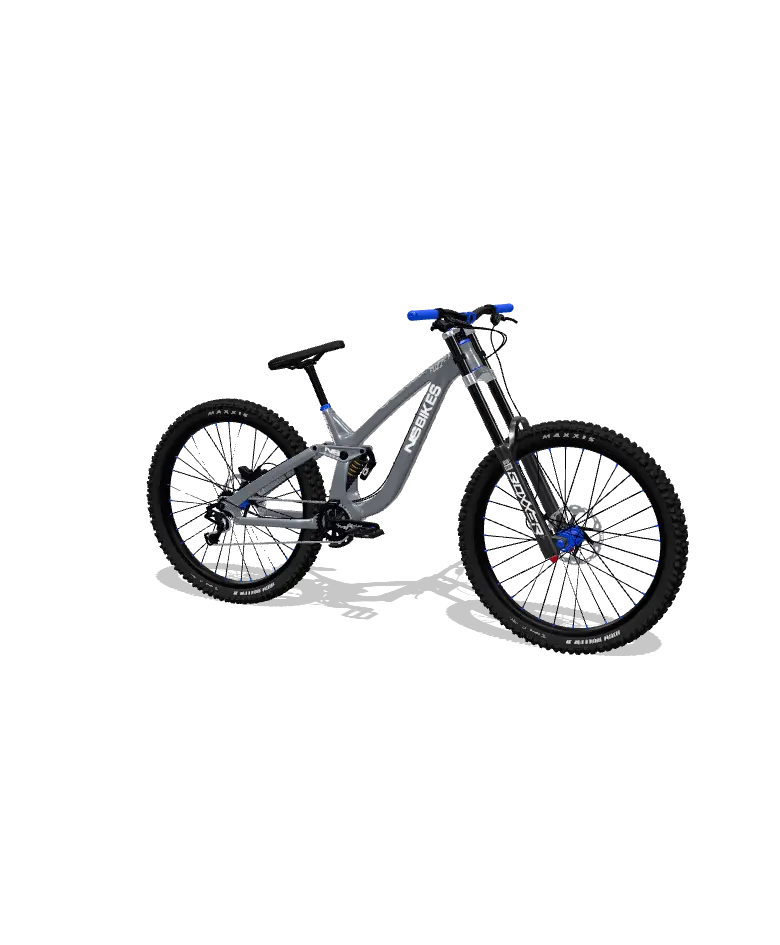
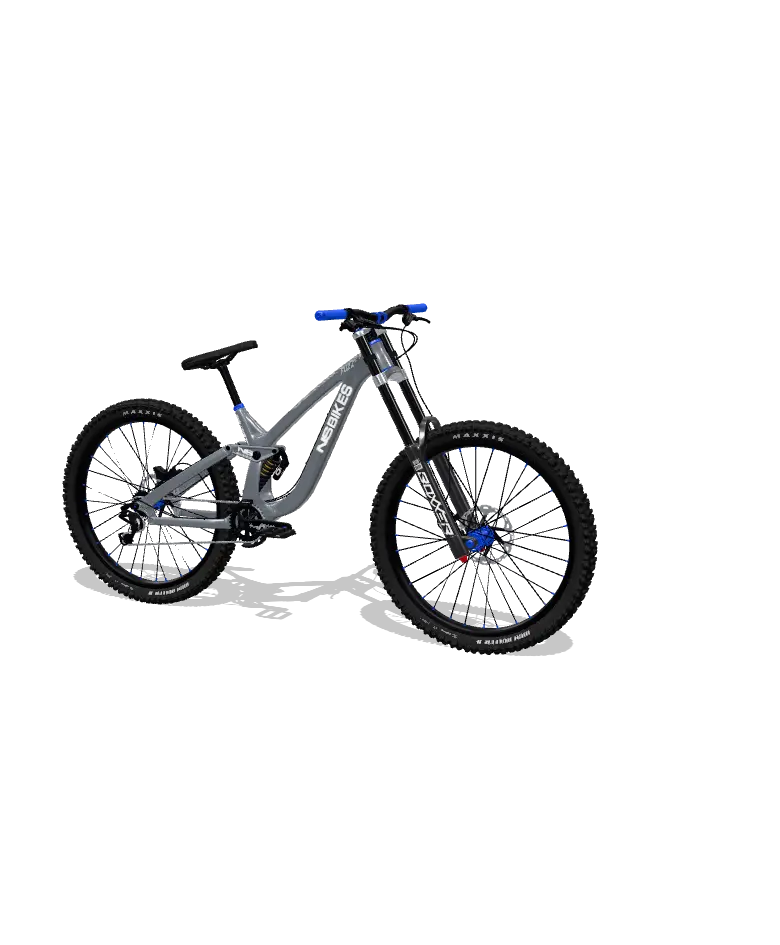
feat: top bar with camera controls, price and main button; quieter scrollbars
- Top bar (56px) above the stage and panel: name + Live preview, the camera
  controls as a segmented control (Full view, Side, Rotate, Image) with
  quality and theme after it, then price ("incl. €X in options"), Share and
  the main button. Removes the stage toolbar, the brand chip and the panel
  footer; the option list takes that height.
- SHOW_CART in config.js (default false): "Add to cart" when on, otherwise
  "Share build" (the Share icon is hidden then, since it would repeat it).
- Under 900px: 52px bar with name, price and main button; camera controls
  stack as 36px glass buttons on the stage's right edge, and the camera view
  is offset so the bike centers in the space left of them.
- Overview view panned 11 cm so the bike sits centered (it leaned right);
  posters re-rendered for the new stage size.
- Thin scrollbars in theme tokens everywhere; 16px top/bottom fades on the
  option list, only while there is more to scroll.

Changed region(s): [[0.0615, 0.3069, 0.8923, 0.7058], [0.3077, 0.3376, 0.3385, 0.3683]]

diff --git a/src/styles.css b/src/styles.css
@@ -27,33 +27,76 @@ body{background:var(--bg);color:var(--ink);font:14px/1.5 Inter,ui-sans-serif,sys
 button,input{font:inherit;color:inherit}
 button{cursor:pointer}
 :focus-visible{outline:2px solid var(--ring);outline-offset:2px;border-radius:8px}
+/* scrollbars blend in everywhere (option list, look slider, page on phones): thin, quiet thumb, no track */
+*{scrollbar-width:thin;scrollbar-color:var(--border-strong) transparent}
+::-webkit-scrollbar{width:8px;height:8px}
+::-webkit-scrollbar-track,::-webkit-scrollbar-corner{background:transparent}
+::-webkit-scrollbar-thumb{background:var(--border) padding-box;border:2px solid transparent;border-radius:999px}
+::-webkit-scrollbar-thumb:hover{background-color:var(--border-strong)}
 
-.app{display:grid;grid-template-columns:minmax(0,1fr) 420px;height:100dvh}
-@media (max-width:900px){body{overflow:auto}.app{grid-template-columns:minmax(0,1fr);grid-template-rows:56dvh auto;height:auto}}
+.app{display:grid;grid-template-columns:minmax(0,1fr) 420px;grid-template-rows:56px minmax(0,1fr);height:100dvh}
+@media (max-width:900px){body{overflow:auto}.app{grid-template-columns:minmax(0,1fr);grid-template-rows:52px 56dvh auto;height:auto}}
 
 .stage{position:relative;background:radial-gradient(120% 90% at 50% 40%,var(--stage-a) 0%,var(--stage-b) 100%);overflow:hidden;min-height:320px}
-@media (max-width:900px){.stage{position:sticky;top:0;z-index:2;height:56dvh}}
+@media (max-width:900px){.stage{position:sticky;top:52px;z-index:2;height:56dvh}}
 canvas{display:block;width:100%;height:100%;touch-action:none;outline:none}
-.brandmark{position:absolute;z-index:1;top:16px;left:20px;padding:6px 10px;border-radius:10px;background:var(--chip);backdrop-filter:blur(10px);-webkit-backdrop-filter:blur(10px);font-weight:600;font-size:15px;letter-spacing:-.01em}
-.brandmark span{color:var(--muted);font-weight:500;margin-left:8px;font-size:12px;padding:2px 8px;border:1px solid var(--border-strong);border-radius:999px}
-.brandmark .live{display:inline-flex;align-items:center;gap:6px;vertical-align:1px}
+.hint{position:absolute;top:18px;right:20px;color:var(--muted);font-size:12px;transition:opacity var(--slow) var(--ease)}
+@media (max-width:900px){.hint{right:auto;left:16px;top:14px}}
+@media (max-width:640px){.hint{display:none}}
+
+/* top bar: name, camera controls, price and the main action, above the stage and the panel */
+.topbar{grid-column:1/-1;position:relative;z-index:4;display:flex;align-items:center;gap:16px;min-width:0;padding:0 16px 0 20px;
+  background:var(--surface);border-bottom:1px solid var(--border)}
+.tbrand{display:flex;align-items:center;gap:10px;min-width:0}
+.tname{font-weight:600;font-size:15px;letter-spacing:-.01em;white-space:nowrap;overflow:hidden;text-overflow:ellipsis}
+.live{display:inline-flex;align-items:center;gap:6px;flex:none;color:var(--muted);font-weight:500;font-size:12px;padding:2px 8px;border:1px solid var(--border-strong);border-radius:999px;white-space:nowrap}
 .live i{width:6px;height:6px;border-radius:50%;background:var(--live);flex:none;animation:livePulse 2s ease-in-out infinite}
 @keyframes livePulse{0%,100%{opacity:1}50%{opacity:.4}}
 @media (prefers-reduced-motion:reduce){.live i{animation:none}}
-.hint{position:absolute;top:22px;right:24px;color:var(--muted);font-size:12px;transition:opacity var(--slow) var(--ease)}
-@media (max-width:640px){.hint{display:none}.brandmark{left:12px;top:12px}}
+.buy{margin-left:auto;display:flex;align-items:center;gap:8px;flex:none}
+.price{display:flex;flex-direction:column;align-items:flex-end;line-height:1.2;margin-right:4px;white-space:nowrap}
+.price .total{font-size:16px;font-weight:600;letter-spacing:-.01em}
+.price .extra{font-size:11px;color:var(--muted)}
+.price .extra:empty{display:none}
+.ib{width:36px;height:36px;flex:none;border:1px solid var(--border-strong);border-radius:10px;background:var(--surface);display:grid;place-items:center;color:var(--ink);transition:background-color var(--fast) var(--ease)}
+.ib svg{width:16px;height:16px}
+@media (hover:hover){.ib:hover{background:var(--hover)}}
+.ib:active{transform:scale(.97)}
+.topbar .btn{height:36px;font-size:13px;padding:0 14px;white-space:nowrap}
 
-.toolbar{position:absolute;left:50%;bottom:20px;transform:translateX(-50%);display:flex;gap:4px;padding:4px;background:var(--chip);backdrop-filter:blur(12px);-webkit-backdrop-filter:blur(12px);border:1px solid var(--border);border-radius:12px;box-shadow:0 8px 24px -12px rgb(0 0 0/.25)}
-.tb{white-space:nowrap;height:34px;min-width:34px;padding:0 10px;border:0;background:transparent;border-radius:8px;display:inline-flex;align-items:center;justify-content:center;gap:6px;font-size:13px;font-weight:500;color:var(--muted);transition:background-color var(--fast) var(--ease),color var(--fast) var(--ease)}
-.tb svg{width:16px;height:16px}
-.tb.on{color:var(--ink);background:var(--hover)}
-@media (hover:hover){.tb:hover{color:var(--ink);background:var(--hover)}}
+/* camera controls: a segmented control in the top bar */
+.toolbar{display:flex;align-items:center;gap:8px;min-width:0;margin-left:8px}
+.views{display:flex;gap:2px;padding:3px;background:var(--hover);border-radius:10px}
+.tools{display:flex;align-items:center;gap:2px}
+.tb{white-space:nowrap;height:30px;min-width:30px;padding:0 10px;border:0;background:transparent;border-radius:7px;display:inline-flex;align-items:center;justify-content:center;gap:6px;font-size:13px;font-weight:500;color:var(--muted);
+  transition:background-color var(--fast) var(--ease),color var(--fast) var(--ease),box-shadow var(--fast) var(--ease)}
+.tools .tb{height:34px;min-width:34px;border-radius:8px}
+.tb svg{width:16px;height:16px;flex:none}
+.views .tb.on{color:var(--ink);background:var(--surface);box-shadow:0 1px 2px rgb(0 0 0/.1)}
+.tools .tb.on,.tools .tb[aria-expanded="true"]{color:var(--ink);background:var(--hover)}
+@media (hover:hover){.tb:hover{color:var(--ink)}.tools .tb:hover{background:var(--hover)}}
 .tb:active{transform:scale(.97)}
-.tbsep{width:1px;background:var(--border);margin:6px 2px}
 .tb:disabled{opacity:.4;cursor:default}
+@media (max-width:1240px){.toolbar .tb[data-view] .lbl,#spinBtn .lbl,#shotBtn .lbl{display:none}.views .tb{padding:0}}
+@media (max-width:1040px){.live{display:none}}
+
+/* phones: the controls move onto the stage (script in index.html) as a vertical stack of glass buttons on the right edge */
+@media (max-width:900px){
+  .topbar{position:sticky;top:0;gap:10px;padding:0 12px}
+  .tbrand,.tname{flex:1}
+  .live,.ib{display:none}
+  .price .total{font-size:15px}
+  .stage .toolbar{position:absolute;z-index:2;top:12px;right:12px;margin:0;flex-direction:column;align-items:stretch;gap:8px}
+  .stage .views,.stage .tools{flex-direction:column;gap:2px;padding:2px;border-radius:12px;background:var(--chip);border:1px solid var(--border);
+    backdrop-filter:blur(10px);-webkit-backdrop-filter:blur(10px);box-shadow:0 8px 24px -12px rgb(0 0 0/.25)}
+  .stage .tb{width:36px;height:36px;min-width:0;padding:0;border-radius:9px}
+  .stage .tb .lbl{display:none}
+  .stage .views .tb.on{background:var(--hover);box-shadow:none}
+}
+
 /* quality menu */
 .qwrap{position:relative;display:flex}
-.qmenu{position:absolute;right:-4px;bottom:calc(100% + 10px);z-index:5;width:244px;padding:6px;display:grid;gap:2px;
+.qmenu{position:absolute;left:-4px;top:calc(100% + 10px);z-index:5;width:244px;padding:6px;display:grid;gap:2px;
   background:var(--surface);border:1px solid var(--border);border-radius:12px;box-shadow:0 12px 32px -12px rgb(0 0 0/.3)}
 .qmenu[hidden]{display:none}
 .qmenu button{display:grid;grid-template-columns:16px minmax(0,1fr);column-gap:8px;align-items:center;padding:8px 10px;border:0;border-radius:8px;
@@ -64,7 +107,7 @@ canvas{display:block;width:100%;height:100%;touch-action:none;outline:none}
 .qmenu span{grid-column:2;font-size:12px;color:var(--muted)}
 .qchk{grid-row:span 2;width:14px;height:14px;color:var(--ink);opacity:0}
 .qmenu [aria-checked="true"] .qchk{opacity:1}
-@media (max-width:560px){.tb .lbl{display:none}}
+@media (max-width:900px){.stage .qmenu{left:auto;top:0;right:calc(100% + 8px)}}
 
 .loader{position:absolute;inset:0;display:grid;place-items:center;transition:opacity var(--slow) var(--ease);z-index:3}
 .loader.done{opacity:0;pointer-events:none}
@@ -76,7 +119,7 @@ canvas{display:block;width:100%;height:100%;touch-action:none;outline:none}
 .poster.m{left:0;top:50%;width:100cqw;transform:translateY(-50%)}
 .poster.dim{opacity:.4}
 .poster.gone{opacity:0}
-.stage.hasPoster .loader{place-items:end center;padding-bottom:88px}
+.stage.hasPoster .loader{place-items:end center;padding-bottom:28px}
 .stage.hasPoster .loader .box{width:auto;padding:8px 14px;border-radius:999px;background:var(--chip);border:1px solid var(--border);backdrop-filter:blur(10px);-webkit-backdrop-filter:blur(10px)}
 .stage.hasPoster .loader .bar{display:none}
 .loader .box{width:240px;text-align:center;color:var(--muted);font-size:13px}
@@ -94,8 +137,7 @@ canvas{display:block;width:100%;height:100%;touch-action:none;outline:none}
 /* look cards: a preset replaces the whole build, so each card shows the whole bike */
 .lhead{display:flex;align-items:baseline;justify-content:space-between;gap:12px}
 .lnote{font-size:12px;font-weight:500;letter-spacing:0;text-transform:none;color:var(--muted);white-space:nowrap}
-.looks{position:relative;display:flex;gap:10px;overflow-x:auto;padding:4px 24px 6px;scroll-snap-type:x mandatory;scroll-padding-inline:24px;scrollbar-width:none;overscroll-behavior-x:contain}
-.looks::-webkit-scrollbar{display:none}
+.looks{position:relative;display:flex;gap:10px;overflow-x:auto;padding:4px 24px 8px;scroll-snap-type:x mandatory;scroll-padding-inline:24px;overscroll-behavior-x:contain}
 .look{flex:none;width:168px;scroll-snap-align:start;display:flex;flex-direction:column;padding:0;border:1px solid var(--border);border-radius:12px;background:var(--surface);text-align:left;overflow:hidden;transition:border-color var(--fast) var(--ease)}
 @media (hover:hover){.look:hover{border-color:var(--border-strong)}}
 .lthumb{position:relative;display:block;height:92px;background:radial-gradient(120% 110% at 50% 35%,var(--stage-a) 0%,var(--stage-b) 100%)}
@@ -122,6 +164,19 @@ canvas{display:block;width:100%;height:100%;touch-action:none;outline:none}
 
 .sections{flex:1;overflow-y:auto;padding:0 12px 16px;min-height:0}
 @media (max-width:900px){.sections{overflow:visible}}
+/* a 16 px fade at the top and bottom of the option list, only while there is more to scroll that way (main.js sets
+   .fadeT/.fadeB). The second mask layer keeps the scrollbar column unmasked. */
+@property --fadeT{syntax:"<length>";inherits:false;initial-value:0px}
+@property --fadeB{syntax:"<length>";inherits:false;initial-value:0px}
+@media (min-width:901px){
+  .sections{--fadeT:0px;--fadeB:0px;transition:--fadeT var(--base) var(--ease),--fadeB var(--base) var(--ease);
+    -webkit-mask:linear-gradient(transparent,#000 var(--fadeT),#000 calc(100% - var(--fadeB)),transparent) 0 0/calc(100% - 8px) 100% no-repeat,
+      linear-gradient(#000,#000) 100% 0/8px 100% no-repeat;
+    mask:linear-gradient(transparent,#000 var(--fadeT),#000 calc(100% - var(--fadeB)),transparent) 0 0/calc(100% - 8px) 100% no-repeat,
+      linear-gradient(#000,#000) 100% 0/8px 100% no-repeat}
+  .sections.fadeT{--fadeT:16px}
+  .sections.fadeB{--fadeB:16px}
+}
 .sec{--row:var(--surface);border-radius:12px;transition:background-color var(--base) var(--ease)}
 .sec.open{--row:var(--surface-2);background:var(--surface-2)}
 .sec+.sec{margin-top:2px}
@@ -221,16 +276,9 @@ canvas{display:block;width:100%;height:100%;touch-action:none;outline:none}
 .moreInner{padding-top:12px}
 .moreInner>.ctrl+.ctrl{margin-top:16px}
 
-.foot{border-top:1px solid var(--border);padding:16px 24px calc(16px + env(safe-area-inset-bottom));background:var(--surface)}
-@media (max-width:900px){.foot{position:sticky;bottom:0;z-index:3}}
-.price{display:flex;align-items:baseline;gap:4px 8px;flex-wrap:wrap}
-.price .total{font-size:22px;font-weight:600;letter-spacing:-.01em}
-.price .extra{font-size:12px;color:var(--muted)}
-.price .ship{flex-basis:100%;font-size:12px;color:var(--muted)}
-.actions{display:flex;gap:8px;margin-top:12px}
-.btn{height:44px;border-radius:10px;border:1px solid var(--border-strong);background:var(--surface);padding:0 14px;font-weight:600;font-size:14px;display:inline-flex;align-items:center;justify-content:center;gap:8px;transition:background-color var(--fast) var(--ease),transform 80ms var(--ease)}
+.btn{flex:none;height:44px;border-radius:10px;border:1px solid var(--border-strong);background:var(--surface);padding:0 14px;font-weight:600;font-size:14px;display:inline-flex;align-items:center;justify-content:center;gap:8px;transition:background-color var(--fast) var(--ease),transform 80ms var(--ease)}
 .btn svg{width:16px;height:16px}
-.btn.primary{flex:1;background:var(--btn);color:var(--btn-ink);border-color:var(--btn)}
+.btn.primary{background:var(--btn);color:var(--btn-ink);border-color:var(--btn)}
 @media (hover:hover){.btn:not(.primary):hover{background:var(--hover)}.btn.primary:hover{opacity:.92}}
 .btn:active{transform:scale(.98)}
 .perfHud{position:fixed;left:12px;bottom:12px;z-index:30;padding:8px 10px;border-radius:10px;background:var(--chip);border:1px solid var(--border);
@@ -239,8 +287,8 @@ canvas{display:block;width:100%;height:100%;touch-action:none;outline:none}
 .toast{position:fixed;left:50%;bottom:24px;transform:translate(-50%,8px);opacity:0;background:var(--ink);color:var(--surface);padding:10px 16px;border-radius:10px;font-size:13px;font-weight:500;z-index:20;transition:opacity var(--slow) var(--ease),transform var(--slow) var(--ease);pointer-events:none}
 .toast.on{opacity:1;transform:translate(-50%,0)}
 .toast{white-space:nowrap;max-width:calc(100vw - 32px);overflow:hidden;text-overflow:ellipsis}
-@media (min-width:901px){.toast{left:calc((100% - 420px) / 2);bottom:84px}}            /* centered on the stage, above the toolbar */
-@media (max-width:900px){.toast{bottom:calc(150px + env(safe-area-inset-bottom))}}   /* above the sticky price bar */
+@media (min-width:901px){.toast{left:calc((100% - 420px) / 2)}}                      /* centered on the stage */
+@media (max-width:900px){.toast{bottom:calc(24px + env(safe-area-inset-bottom))}}
 .toast.act{pointer-events:auto}
 .tact{border:0;background:transparent;padding:0;color:inherit;font-weight:600;text-decoration:underline;text-underline-offset:2px}
 @media (max-width:420px){.lnote{font-size:11px}}

diff --git a/index.html b/index.html
@@ -9,14 +9,15 @@
 <script>
   // Runs first, before any stylesheet: applies the saved theme and starts downloading the poster (a pre-rendered image of
   // the bike shown until the 3D model is ready, made by tools/perf/poster.mjs). The stage shape follows from the window:
-  // beside the 420 px panel above 900 px, else full width at 56% height. Below 0.9 aspect the camera frames by width.
+  // beside the 420 px panel and under the 56 px top bar above 900 px, else full width at 56% height.
+  // Below 0.9 aspect the camera frames by width.
   (function(){
     var r = document.documentElement, t = null;
     try { t = localStorage.getItem('dh-theme'); } catch (e) {}
     if (t) r.dataset.theme = t;
     if (/[?&]noposter/.test(location.search)) return;
     var dark = t ? t === 'dark' : matchMedia('(prefers-color-scheme: dark)').matches;
-    var w = innerWidth, h = innerHeight, m = (w > 900 ? (w - 420) / h : w / (h * .56)) < .9;
+    var w = innerWidth, h = innerHeight, m = (w > 900 ? (w - 420) / (h - 56) : w / (h * .56)) < .9;
     var src = 'assets/poster/' + (m ? 'mobile' : 'desktop') + '-' + (dark ? 'dark' : 'light') + '.webp';
     window.__poster = { src: src, m: m };
     var l = document.createElement('link'); l.rel = 'preload'; l.as = 'image'; l.href = src; l.fetchPriority = 'high';
@@ -54,8 +55,35 @@
 </head>
 <body>
 <div class="app">
+  <header class="topbar">
+    <div class="tbrand"><span class="tname">Gravity DH</span><span class="live"><i aria-hidden="true"></i>Live preview</span></div>
+    <!-- camera controls: a segmented control here; on phones a script below moves them onto the stage as a vertical stack -->
+    <div class="toolbar" id="toolbar" role="toolbar" aria-label="View controls">
+      <div class="views">
+        <button class="tb" data-view="overview" title="Full view" aria-label="Full view"><svg viewBox="0 0 24 24" fill="none" stroke="currentColor" stroke-width="1.8" stroke-linecap="round" stroke-linejoin="round" aria-hidden="true"><path d="M3 9V5a2 2 0 0 1 2-2h4M15 3h4a2 2 0 0 1 2 2v4M21 15v4a2 2 0 0 1-2 2h-4M9 21H5a2 2 0 0 1-2-2v-4"/></svg><span class="lbl">Full view</span></button>
+        <button class="tb" data-view="side" title="Side view" aria-label="Side view"><svg viewBox="0 0 24 24" fill="none" stroke="currentColor" stroke-width="1.8" stroke-linecap="round" stroke-linejoin="round" aria-hidden="true"><circle cx="5.5" cy="16" r="3.5"/><circle cx="18.5" cy="16" r="3.5"/><path d="M5.5 16 9 8h6l3.5 8M9 8l3 8 3-8M8 6h3"/></svg><span class="lbl">Side</span></button>
+        <button class="tb" id="spinBtn" title="Auto-rotate" aria-label="Auto-rotate" aria-pressed="false"><svg viewBox="0 0 24 24" fill="none" stroke="currentColor" stroke-width="1.8" stroke-linecap="round" stroke-linejoin="round" aria-hidden="true"><path d="M21 12a9 9 0 1 1-3-6.7L21 8"/><path d="M21 3v5h-5"/></svg><span class="lbl">Rotate</span></button>
+        <button class="tb" id="shotBtn" title="Save image" aria-label="Save image"><svg viewBox="0 0 24 24" fill="none" stroke="currentColor" stroke-width="1.8" stroke-linecap="round" stroke-linejoin="round" aria-hidden="true"><path d="M4 8h3l2-3h6l2 3h3v11H4z"/><circle cx="12" cy="13" r="3.5"/></svg><span class="lbl">Image</span></button>
+      </div>
+      <div class="tools">
+        <div class="qwrap">
+          <button class="tb" id="qualityBtn" title="Quality" aria-label="Quality" aria-haspopup="menu" aria-expanded="false" aria-controls="qualityMenu"><svg viewBox="0 0 24 24" fill="none" stroke="currentColor" stroke-width="1.8" stroke-linecap="round" stroke-linejoin="round" aria-hidden="true"><path d="M4.5 17a8 8 0 1 1 15 0"/><path d="m12 15.5 3.5-5"/><circle cx="12" cy="16" r="1"/></svg><span class="lbl" id="qualityLbl">Auto</span></button>
+          <div class="qmenu" id="qualityMenu" role="menu" aria-label="Quality" hidden>
+            <button role="menuitemradio" aria-checked="true" data-q="auto"><svg class="qchk" viewBox="0 0 24 24" fill="none" stroke="currentColor" stroke-width="2.4" stroke-linecap="round" stroke-linejoin="round" aria-hidden="true"><path d="m5 12.5 4.5 4.5L19 7.5"/></svg><b>Auto</b><span id="qAutoNote">Picks for this device</span></button>
+            <button role="menuitemradio" aria-checked="false" data-q="high"><svg class="qchk" viewBox="0 0 24 24" fill="none" stroke="currentColor" stroke-width="2.4" stroke-linecap="round" stroke-linejoin="round" aria-hidden="true"><path d="m5 12.5 4.5 4.5L19 7.5"/></svg><b>High</b><span>Full detail and shadows</span></button>
+            <button role="menuitemradio" aria-checked="false" data-q="fast"><svg class="qchk" viewBox="0 0 24 24" fill="none" stroke="currentColor" stroke-width="2.4" stroke-linecap="round" stroke-linejoin="round" aria-hidden="true"><path d="m5 12.5 4.5 4.5L19 7.5"/></svg><b>Fast</b><span>Lighter model for older devices</span></button>
+          </div>
+        </div>
+        <button class="tb" id="themeBtn" title="Theme" aria-label="Switch theme"><svg viewBox="0 0 24 24" fill="none" stroke="currentColor" stroke-width="1.8" stroke-linecap="round" stroke-linejoin="round" aria-hidden="true"><path d="M21 13A9 9 0 1 1 11 3a7 7 0 0 0 10 10z"/></svg></button>
+      </div>
+    </div>
+    <div class="buy">
+      <div class="price"><span class="total" id="total">€4,499</span><span class="extra" id="extra"></span></div>
+      <button class="ib" id="shareBtn" title="Copy a link to this build" aria-label="Share"><svg viewBox="0 0 24 24" fill="none" stroke="currentColor" stroke-width="1.8" stroke-linecap="round" stroke-linejoin="round" aria-hidden="true"><path d="M10 14a5 5 0 0 0 7 0l3-3a5 5 0 0 0-7-7l-1 1"/><path d="M14 10a5 5 0 0 0-7 0l-3 3a5 5 0 0 0 7 7l1-1"/></svg></button>
+      <button class="btn primary" id="mainBtn">Share build</button>
+    </div>
+  </header>
   <section class="stage" id="stage" aria-label="3D bike preview">
-    <div class="brandmark">Gravity DH <span class="live"><i aria-hidden="true"></i>Live preview</span></div>
     <div class="hint" id="hint">Drag to rotate · Scroll to zoom · Click a part to edit it</div>
     <img class="poster" id="poster" alt="" fetchpriority="high">
     <script>
@@ -70,22 +98,6 @@
     </script>
     <div class="loader" id="loader"><div class="box"><div id="loadTxt">Loading bike… 0%</div><div class="bar"><i id="loadBar"></i></div></div></div>
     <div class="partTip" id="partTip"></div>
-    <div class="toolbar" role="toolbar" aria-label="View controls">
-      <button class="tb" data-view="overview" title="Full view"><svg viewBox="0 0 24 24" fill="none" stroke="currentColor" stroke-width="1.8" stroke-linecap="round" stroke-linejoin="round"><path d="M3 9V5a2 2 0 0 1 2-2h4M15 3h4a2 2 0 0 1 2 2v4M21 15v4a2 2 0 0 1-2 2h-4M9 21H5a2 2 0 0 1-2-2v-4"/></svg><span class="lbl">Full view</span></button>
-      <button class="tb" data-view="side" title="Side view"><svg viewBox="0 0 24 24" fill="none" stroke="currentColor" stroke-width="1.8" stroke-linecap="round" stroke-linejoin="round"><circle cx="5.5" cy="16" r="3.5"/><circle cx="18.5" cy="16" r="3.5"/><path d="M5.5 16 9 8h6l3.5 8M9 8l3 8 3-8M8 6h3"/></svg><span class="lbl">Side</span></button>
-      <button class="tb" id="spinBtn" title="Auto-rotate" aria-pressed="false"><svg viewBox="0 0 24 24" fill="none" stroke="currentColor" stroke-width="1.8" stroke-linecap="round" stroke-linejoin="round"><path d="M21 12a9 9 0 1 1-3-6.7L21 8"/><path d="M21 3v5h-5"/></svg><span class="lbl">Rotate</span></button>
-      <span class="tbsep"></span>
-      <button class="tb" id="shotBtn" title="Save image"><svg viewBox="0 0 24 24" fill="none" stroke="currentColor" stroke-width="1.8" stroke-linecap="round" stroke-linejoin="round"><path d="M4 8h3l2-3h6l2 3h3v11H4z"/><circle cx="12" cy="13" r="3.5"/></svg><span class="lbl">Image</span></button>
-      <div class="qwrap">
-        <button class="tb" id="qualityBtn" title="Quality" aria-haspopup="menu" aria-expanded="false" aria-controls="qualityMenu"><svg viewBox="0 0 24 24" fill="none" stroke="currentColor" stroke-width="1.8" stroke-linecap="round" stroke-linejoin="round"><path d="M4.5 17a8 8 0 1 1 15 0"/><path d="m12 15.5 3.5-5"/><circle cx="12" cy="16" r="1"/></svg><span class="lbl" id="qualityLbl">Auto</span></button>
-        <div class="qmenu" id="qualityMenu" role="menu" aria-label="Quality" hidden>
-          <button role="menuitemradio" aria-checked="true" data-q="auto"><svg class="qchk" viewBox="0 0 24 24" fill="none" stroke="currentColor" stroke-width="2.4" stroke-linecap="round" stroke-linejoin="round" aria-hidden="true"><path d="m5 12.5 4.5 4.5L19 7.5"/></svg><b>Auto</b><span id="qAutoNote">Picks for this device</span></button>
-          <button role="menuitemradio" aria-checked="false" data-q="high"><svg class="qchk" viewBox="0 0 24 24" fill="none" stroke="currentColor" stroke-width="2.4" stroke-linecap="round" stroke-linejoin="round" aria-hidden="true"><path d="m5 12.5 4.5 4.5L19 7.5"/></svg><b>High</b><span>Full detail and shadows</span></button>
-          <button role="menuitemradio" aria-checked="false" data-q="fast"><svg class="qchk" viewBox="0 0 24 24" fill="none" stroke="currentColor" stroke-width="2.4" stroke-linecap="round" stroke-linejoin="round" aria-hidden="true"><path d="m5 12.5 4.5 4.5L19 7.5"/></svg><b>Fast</b><span>Lighter model for older devices</span></button>
-        </div>
-      </div>
-      <button class="tb" id="themeBtn" title="Theme"><svg viewBox="0 0 24 24" fill="none" stroke="currentColor" stroke-width="1.8" stroke-linecap="round" stroke-linejoin="round"><path d="M21 13A9 9 0 1 1 11 3a7 7 0 0 0 10 10z"/></svg></button>
-    </div>
   </section>
 
   <aside class="panel" aria-label="Configure your bike">
@@ -98,15 +110,16 @@
     <div class="looks" id="presets"></div>
     <div class="plabel">Customize</div>
     <div class="sections" id="sections"></div>
-    <div class="foot">
-      <div class="price"><span class="total" id="total">€4,499</span><span class="extra" id="extra"></span><span class="ship">Free shipping · Hand-built in 3–4 weeks</span></div>
-      <div class="actions">
-        <button class="btn" id="shareBtn" title="Copy a link to this build"><svg viewBox="0 0 24 24" fill="none" stroke="currentColor" stroke-width="1.8" stroke-linecap="round" stroke-linejoin="round"><path d="M10 14a5 5 0 0 0 7 0l3-3a5 5 0 0 0-7-7l-1 1"/><path d="M14 10a5 5 0 0 0-7 0l-3 3a5 5 0 0 0 7 7l1-1"/></svg><span id="shareLbl">Share</span></button>
-        <button class="btn primary" id="cartBtn">Add to cart</button>
-      </div>
-    </div>
   </aside>
 </div>
+<script>
+  (function(){
+    var t = document.getElementById('toolbar'), bar = t.parentNode, next = t.nextElementSibling, stage = document.getElementById('stage');
+    var mq = matchMedia('(max-width: 900px)');
+    function place(){ if (mq.matches) stage.appendChild(t); else bar.insertBefore(t, next); }
+    place(); mq.addEventListener('change', place);
+  })();
+</script>
 <div class="toast" id="toast" role="status" aria-live="polite"></div>
 
 <script type="module" src="src/main.js"></script>

diff --git a/src/main.js b/src/main.js
@@ -5,7 +5,7 @@ import { RoomEnvironment } from 'three/addons/environments/RoomEnvironment.js';
 import { MeshoptDecoder } from 'three/addons/libs/meshopt_decoder.module.js';
 import { mergeGeometries } from 'three/addons/utils/BufferGeometryUtils.js';
 
-import { BASE_PRICE, OIL, PAINT, ANO, SECTIONS, PRESETS, DEFAULT, VIEWS, slotFor, SLOT_SECTION, SLOT_LABEL, FINISH,
+import { BASE_PRICE, SHOW_CART, OIL, PAINT, ANO, SECTIONS, PRESETS, DEFAULT, VIEWS, slotFor, SLOT_SECTION, SLOT_LABEL, FINISH,
   SECTION_ICONS, FONTS, TEXT_SPOTS, TEXT_PRICE, TEXT_PRICE_MAX, TEXT_CHARS, BAR_RISE, BAR_WIDTH, SADDLE_SHAPES, RIM_DEPTHS, SPOKE_SHAPES, PEDAL_STYLES } from './config.js';
 import { initPerf } from './perf.js';
 import { Resolution, savedQuality, saveQuality, lowEndScore, probeFrame } from './quality.js';
@@ -734,7 +734,11 @@ function drawTexts(){
 function resize(){
   const r = stage.getBoundingClientRect();
   renderer.setSize(r.width, r.height, false);
-  camera.aspect = r.width / r.height; camera.fov = camera.aspect < .9 ? 42 : 30; camera.updateProjectionMatrix();
+  camera.aspect = r.width / r.height; camera.fov = camera.aspect < .9 ? 42 : 30;
+  // phones: the camera buttons stack on the stage's right edge, so center the view in the space left of them
+  const tb = document.getElementById('toolbar'), shift = tb.parentNode === stage ? (tb.offsetWidth + 12) / 2 : 0;
+  if (shift) camera.setViewOffset(r.width, r.height, shift, 0, r.width, r.height); else camera.clearViewOffset();
+  camera.updateProjectionMatrix();
   // resizing clears the canvas, and ResizeObserver runs after this frame's rAF: render now so nothing flashes
   if (frameReq) { cancelAnimationFrame(frameReq); frameReq = 0; }
   frame(performance.now());
@@ -1042,6 +1046,16 @@ function highlight(id){
     }, false, HL.in);
   }
 }
+// option list: fade its top and bottom edges only while there is more to scroll that way
+const secList = document.getElementById('sections');
+function syncFade(){
+  const more = secList.scrollHeight - secList.clientHeight - secList.scrollTop;
+  secList.classList.toggle('fadeT', secList.scrollTop > 1);
+  secList.classList.toggle('fadeB', more > 1);
+}
+secList.addEventListener('scroll', syncFade, { passive: true });
+const fadeRO = new ResizeObserver(syncFade);
+fadeRO.observe(secList); secList.querySelectorAll('.sec').forEach(el => fadeRO.observe(el));
 // the last pointer decides hover vs touch (media queries misreport on hybrid and emulated devices)
 let lastPointer = 'mouse', hlOnce;
 addEventListener('pointerdown', e => { lastPointer = e.pointerType; }, true);
@@ -1279,11 +1293,20 @@ function toast(m, action, fn){
   t.classList.add('on'); t.classList.toggle('act', !!action);
   clearTimeout(toastT); toastT = setTimeout(() => t.classList.remove('on', 'act'), action ? 6000 : 2000);
 }
-document.getElementById('shareBtn').onclick = async () => {
+// top bar: the main button adds to cart when SHOW_CART is on; otherwise it shares the build (the Share icon would repeat it)
+const shareBtn = document.getElementById('shareBtn'), mainBtn = document.getElementById('mainBtn');
+let shareT;
+async function share(){
   writeHash(); try { await navigator.clipboard.writeText(location.href); } catch(e) {}
-  const l = document.getElementById('shareLbl'); l.textContent = 'Link copied'; toast('Link to this build copied'); setTimeout(() => l.textContent = 'Share', 1500);
-};
-document.getElementById('cartBtn').onclick = () => toast(`Demo only · ${document.getElementById('total').textContent} build added to cart`);
+  toast('Link to this build copied');
+  if (SHOW_CART) return;
+  mainBtn.textContent = 'Link copied'; clearTimeout(shareT); shareT = setTimeout(() => mainBtn.textContent = 'Share build', 1500);
+}
+shareBtn.onclick = share;
+shareBtn.hidden = !SHOW_CART;
+mainBtn.textContent = SHOW_CART ? 'Add to cart' : 'Share build';
+mainBtn.title = SHOW_CART ? '' : 'Copy a link to this build';
+mainBtn.onclick = SHOW_CART ? () => toast(`Demo only · ${document.getElementById('total').textContent} build added to cart`) : share;
 document.getElementById('shotBtn').onclick = () => {
   renderer.render(scene, camera);
   const a = document.createElement('a'); a.download = 'gravity-dh-build.png'; a.href = renderer.domElement.toDataURL('image/png'); a.click(); toast('Image saved');

diff --git a/src/config.js b/src/config.js
@@ -3,6 +3,8 @@
 // Edit this file to add colors, options or parts; main.js reads it.
 
 export const BASE_PRICE = 4499;
+// true: the top bar's main button is "Add to cart" (a store integration handles it). false (the demo): it is "Share build".
+export const SHOW_CART = false;
 export const OIL = 'conic-gradient(from 200deg,#6a5acd,#2bb3a3,#d4b13c,#c2457a,#6a5acd)';
 
 /* ============ options ============ */
@@ -203,7 +205,7 @@ export const SECTION_ICONS = {
 
 /* ============ camera views (meters, bike faces +X, drive side +Z) ============ */
 export const VIEWS = {
-  overview:{ cam:[1.5,1.08,3.0], tgt:[0,.52,0] },
+  overview:{ cam:[1.6,1.08,2.95], tgt:[.1,.52,-.05] },   // panned 11 cm right: the near front wheel looks bigger, this re-centers the bike
   side:    { cam:[0,.6,4.3],       tgt:[0,.52,0] },
   frame:   { cam:[.85,1.05,2.75],  tgt:[0,.62,0] },
   rear:    { cam:[-1.1,.95,1.95],  tgt:[-.35,.52,0] },

diff --git a/CLAUDE.md b/CLAUDE.md
@@ -67,9 +67,12 @@ Keep it that way unless the roadmap item says otherwise.
 
 ## How things work (short)
 
-- **State** is a flat object of option indexes, plus `height` (a number) and the text spot strings (`name` for the down tube, `<spot>Txt` for the rest). Values that differ from `DEFAULT` are written to the URL hash. That is what the Share button copies.
+- **State** is a flat object of option indexes, plus `height` (a number) and the text spot strings (`name` for the down tube, `<spot>Txt` for the rest). Values that differ from `DEFAULT` are written to the URL hash. That is what Share copies (the top bar's "Share build" button, or its Share icon when `SHOW_CART` is on).
 - **Slots:** every mesh primitive in the GLB is mapped by `node/material` name to a slot such as `frame`, `rear`, `accent` or `tires` (`slotFor()` in `config.js`). Each slot has one shared material in `main.js` (`M.*`): `MeshPhysicalMaterial` only where clearcoat, iridescence or sheen shows, `MeshStandardMaterial` elsewhere. Changing a color animates that material.
 - **`applyState()`** in `main.js` turns the state into material colors and finishes, part visibility (tire swap, chain guide, pedals), the saddle offset and stickers. Add new behavior there.
+- **Layout:** a top bar (name, camera controls, price, main button) above the stage and the panel. Below 900px the camera
+  controls move onto the stage as a vertical stack (inline script in `index.html`), and `resize()` offsets the camera view
+  so the bike centers in the space left of them. The option list scrolls with edge fades (`syncFade()` in `main.js`).
 - **Click on bike:** a raycast finds the mesh, reads its slot from `SLOT_SECTION`, and opens that panel section. The camera then flies to `VIEWS[section.focus]`.
 
 ## Gotchas (each one cost time already)

diff --git a/docs/PERF.md b/docs/PERF.md
@@ -179,7 +179,7 @@ See the before/after screenshots at the end of this page.
 
 ## Phase 4: low-end quality mode
 
-- **Quality: Auto / High / Fast** in the toolbar (gauge icon), saved in `localStorage` (`dh-quality`).
+- **Quality: Auto / High / Fast** in the top bar's camera controls (gauge icon), saved in `localStorage` (`dh-quality`).
 - **Auto** scores the device (`lowEndScore()` in `src/quality.js`): `navigator.deviceMemory` (≤ 2 GB: 2 points, ≤ 4 GB: 1),
   `hardwareConcurrency` (≤ 2 cores: 2, ≤ 4: 1), `prefers-reduced-motion` (1) and a probe of five synced frames of the light
   model at DPR 1 (> 14 ms: 2, > 9 ms: 1). Fast needs 3 points, so no single signal decides it (reduced motion alone is an

diff --git a/docs/CUSTOMIZING.md b/docs/CUSTOMIZING.md
@@ -46,4 +46,5 @@ Push `{ name, desc, c:{ key:index, … } }` to `PRESETS`. Keys you leave out fal
 
 ## Change prices
 - Base price: `BASE_PRICE`.
+- Cart: `SHOW_CART` (default `false`). When on, the top bar's main button is "Add to cart" and a Share icon sits beside it; when off (the demo), the main button is "Share build".
 - Option prices: the price field of each option (see the table in ARCHITECTURE.md).
